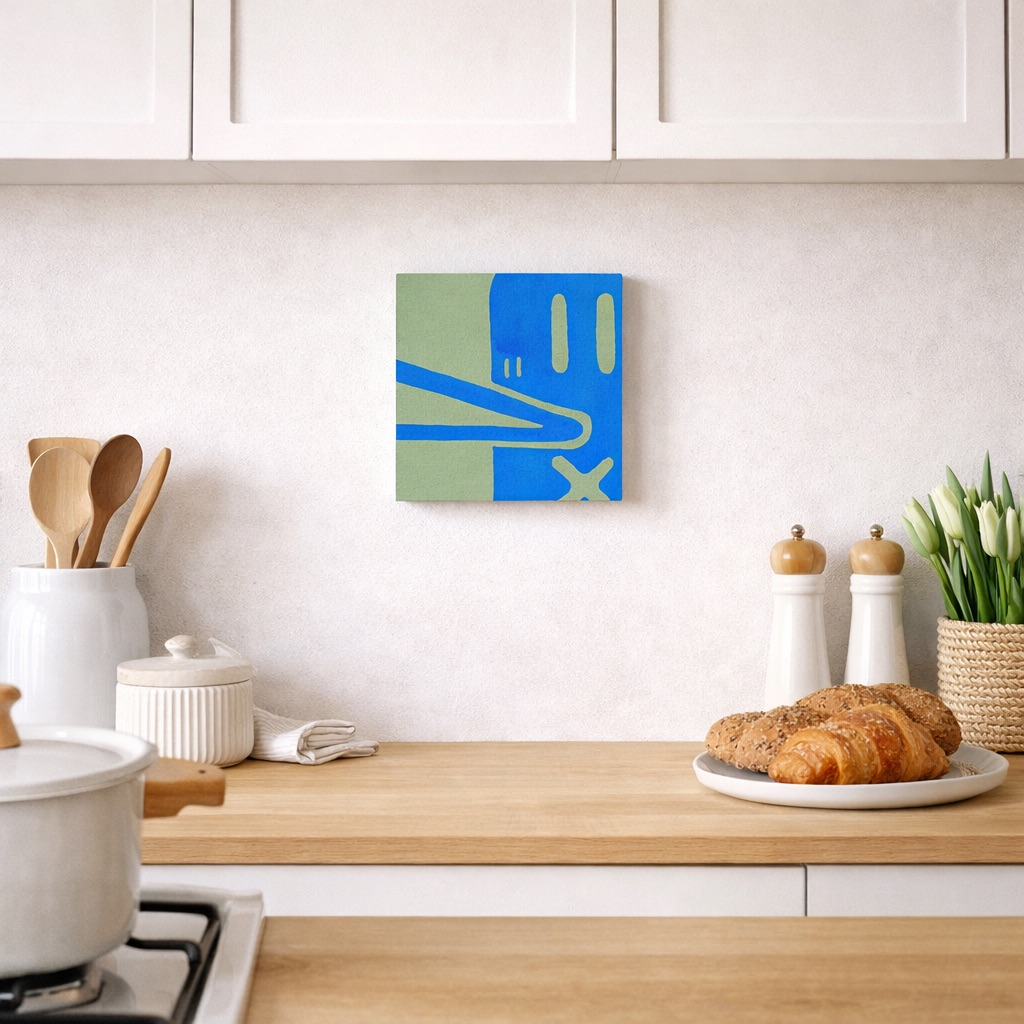
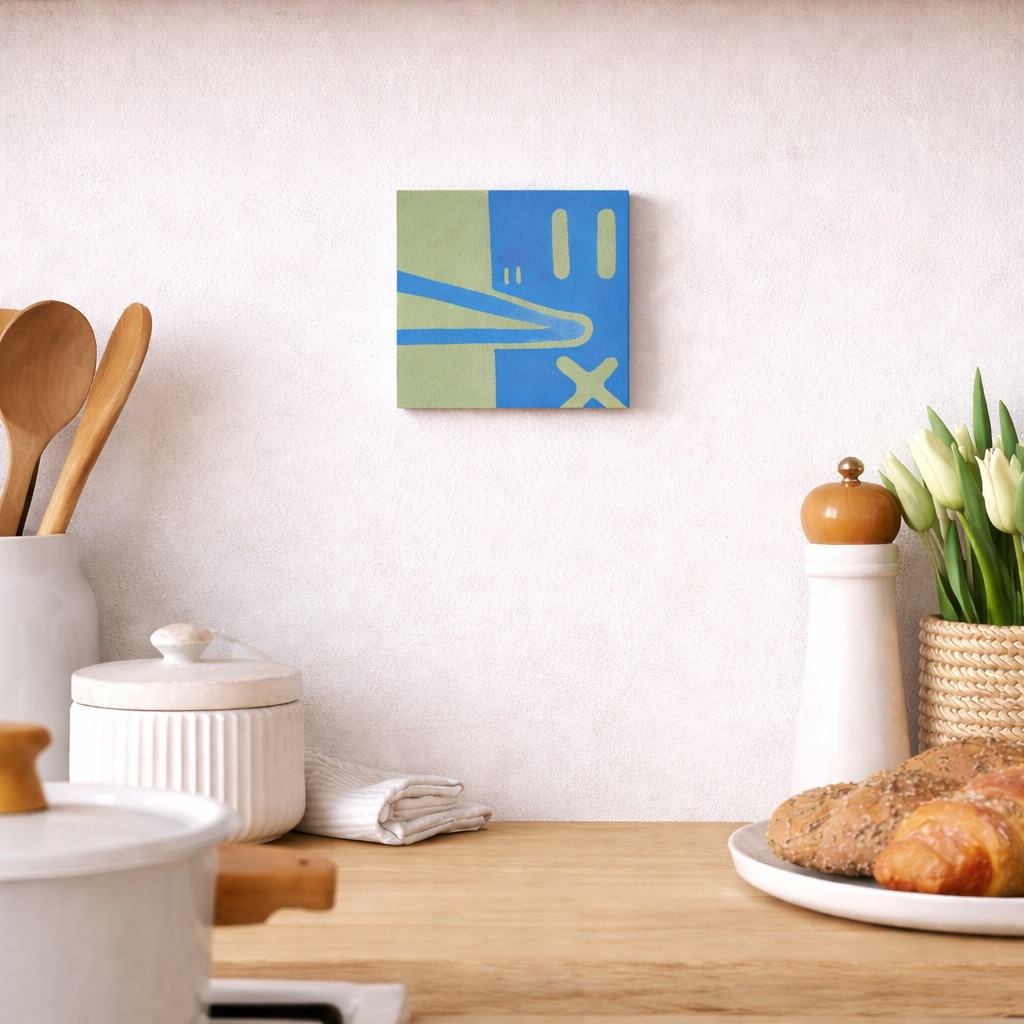
fix: ArtworkCard-Buttons durch SpecialButton/SpecialButtonDark ersetzt

diff --git a/src/app/ausstellung-holzkirchen/components/AusstellungDark.tsx b/src/app/ausstellung-holzkirchen/components/AusstellungDark.tsx
@@ -875,16 +875,14 @@ function ArtworkCard({
               Wird noch bekannt gegeben
             </div>
           ) : (
-            <button
+            <SpecialButtonDark
+              variant="primary"
+              size="sm"
               onClick={() => onReserve(artwork)}
-              className={`w-full py-2 px-4 rounded-full text-sm font-semibold transition-all duration-200 ${
-                isLight
-                  ? 'bg-gray-900 text-white hover:bg-gray-800 active:scale-[0.98]'
-                  : 'bg-white text-gray-900 hover:bg-gray-100 active:scale-[0.98]'
-              }`}
+              className="w-full"
             >
               Reservieren
-            </button>
+            </SpecialButtonDark>
           )}
         </div>
       </div>

diff --git a/src/app/ausstellung-holzkirchen/components/AusstellungLight.tsx b/src/app/ausstellung-holzkirchen/components/AusstellungLight.tsx
@@ -877,16 +877,14 @@ function ArtworkCard({
               Wird noch bekannt gegeben
             </div>
           ) : (
-            <button
+            <SpecialButton
+              variant="primary"
+              size="xs"
               onClick={() => onReserve(artwork)}
-              className={`w-full py-2 px-4 rounded-full text-sm font-semibold transition-all duration-200 ${
-                isLight
-                  ? 'bg-gray-900 text-white hover:bg-gray-800 active:scale-[0.98]'
-                  : 'bg-white text-gray-900 hover:bg-gray-100 active:scale-[0.98]'
-              }`}
+              className="w-full"
             >
               Reservieren
-            </button>
+            </SpecialButton>
           )}
         </div>
       </div>
